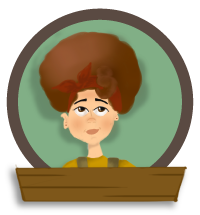
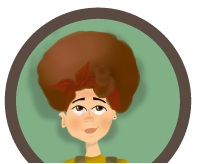
user-info details css change

diff --git a/public/stylesheets/shopwindow.css b/public/stylesheets/shopwindow.css
@@ -112,12 +112,11 @@ body {
 
 .user_icons_info {
 	position: absolute;
-	top: 20px;
-	left: 25px;
-	width: 40px;
-	height: 50px;
+	top: 10%;
+	left: 10%;
+	width: 30%;
+	height:80%;
 }
-
 .trapezoid {
 	border-top: 20px solid #79551a;
 	border-left: 8px solid transparent;
@@ -165,31 +164,47 @@ body {
 
 #div_user_icon {
 	position: absolute;
-	width: 100px;
-	height: 100px;
+	width: 7%;
+	height: 100%;
 	left: -35px;
 	top: 7px;
-	background-image: url("/public/images/home/igrac.png");
-	background-size: 100% 100%;
+	/*background-image: url("/public/images/home/igrac.png");
+	background-size: 100% 100%;*/
 	text-align: center;
+	z-index: 100;
+}
+
+.img-user-info {
+	width: 100%;
+}
+
+.img-user-info-ramka {
+	position: relative;
+	top: -2%; background : url("/public/images/home/ramka.png");
+	background-size: 100% 100%;
+	height: 25px;
+	text-align: center;
+	font-size: 1.3em;
+	background: url("/public/images/home/ramka.png");
 }
 
 #span_user_name {
-	position: relative;
-	top: 75px;
-	font-size: large;
 	color: #FFFFFF;
 }
 
-#div_apple_in_stock_info {
+.div-user-info-general {
+	width: 13%;
 	position: absolute;
-	width: 175px;
 	height: 80px;
-	left: 125px;
-	top: -100px;
-	background-image: url("/public/images/home/drven_el.png");
 	background-size: 100% 100%;
 	text-align: center;
+	z-index: 100;
+}
+
+#div_apple_in_stock_info {
+	left: 9%;
+	top: -100px;
+	background-image: url("/public/images/home/drven_el.png");
 }
 
 #span_icon_apples_in_stock {
@@ -209,14 +224,9 @@ body {
 }
 
 #div_money_in_stock_info {
-	position: absolute;
-	width: 175px;
-	height: 80px;
-	left: 330px;
+	left: 23%;
 	top: -100px;
 	background-image: url("/public/images/home/drven_el.png");
-	background-size: 100% 100%;
-	text-align: center;
 }
 
 #span_money_in_stock_info {
@@ -229,14 +239,9 @@ body {
 }
 
 #div_eco_points_info {
-	position: absolute;
-	width: 175px;
-	height: 80px;
-	left: 540px;
+	left: 37%;
 	top: -100px;
 	background-image: url("/public/images/home/drven_el.png");
-	background-size: 100% 100%;
-	text-align: center;
 }
 
 #span_eco_point_info {
@@ -306,34 +311,63 @@ body {
 }
 
 .weather-info-text {
-	font-size:1em;
+	font-size: 1em;
 }
 
-@media (max-width: 1200px) {
-  .weather-info-text {
-	font-size:0.9em;
-   }
+@media ( max-width : 1200px) {
+	.weather-info-text {
+		font-size: 0.9em;
+	}
 }
 
-@media (max-width: 1100px) {
-  .weather-info-text {
-	font-size:0.8em;
-   }
+@media ( max-width : 1100px) {
+	.weather-info-text {
+		font-size: 0.8em;
+	}
 }
 
-@media (max-width: 1000px) {
-  .weather-info-text {
-	font-size:0.6em;
-   }
-}
-@media (max-width: 700px) {
-  .weather-info-text {
-	font-size:0.4em;
-   }
+@media ( max-width : 1000px) {
+	.weather-info-text {
+		font-size: 0.6em;
+	}
+	.img-user-info-ramka {
+		font-size: 1em;
+		height: 20px;
+	}
+	.div-user-info-general {
+		height: 70px;
+	}
 }
 
-@media (max-width: 400px) {
-  .weather-info-text {
-	font-size:0.2em;
-   }
+@media ( max-width : 700px) {
+	.weather-info-text {
+		font-size: 0.4em;
+	}
+	.img-user-info-ramka {
+		font-size: 0.8em;
+		height: 18px;
+	}
+	.div-user-info-general {
+		height: 60px;
+	}
+}
+
+@media ( max-width : 400px) {
+	.weather-info-text {
+		font-size: 0.6em;
+	}
+	.img-user-info-ramka {
+		font-size: 0.6em;
+		height: 15px;
+	}
+	.div-user-info-general {
+		height: 40px;
+	}
+	.weather-div {
+		display: none;
+	}
+	.weather-div-bigger {
+		float: none;
+		width: 60%;
+	}
 }

diff --git a/public/templates/user-info.html b/public/templates/user-info.html
@@ -1,16 +1,19 @@
 <div id="user_tile">
 	<div id="div_user_icon">
+		<img src="/public/images/home/igrac.png" class="img-user-info"/>
+		<div class="img-user-info-ramka">
 		<span id="span_user_name">{{$root.farmer.username}}</span>
+		</div>
 	</div>
-	<div id="div_apple_in_stock_info">
+	<div id="div_apple_in_stock_info" class="div-user-info-general">
 		<img class="user_icons_info" src="/public/images/home/apple_icon_in_stock.png"/>
 		<span id="span_apples_in_stock_info">{{$root.farmer.apples_in_stock}}</span>
 	</div>
-	<div id="div_money_in_stock_info">
+	<div id="div_money_in_stock_info" class="div-user-info-general">
 		<span id="span_icon_money_in_stock"></span>
 		<span id="span_money_in_stock_info">{{$root.farmer.balans}}</span>
 	</div>
-	<div id="div_eco_points_info">
+	<div id="div_eco_points_info" class="div-user-info-general">
 		<span id="span_icon_eco_points"></span>
 		<span id="span_eco_point_info">{{$root.farmer.eco_points}}</span>
 	</div>
